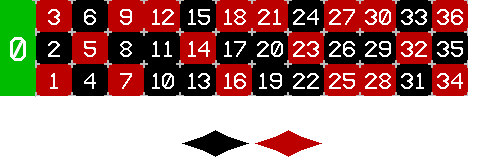
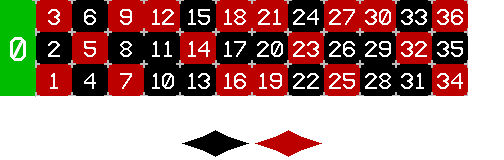
Final Fixes
PLease work

Changed region(s): [[0.4762, 0.375, 0.5952, 0.625], [0.7143, 0.375, 0.8036, 0.625]]

diff --git a/localServer/server.js b/localServer/server.js
@@ -317,6 +317,7 @@ function damage(p, d){
     if (p.upgrades.includes("h") && Math.random() < Math.min((1-1/(1+0.05*(p.upgrades.split("h").length-1))), 0.85)){
         return 0;
     }
+    d = Math.max(1, d - 5*(p.upgrades.split("a").length - 1));
     if (p.health[0] <= d && p.upgrades.includes("e")){
         let t = p.upgrades.split(".");
         let lsId = t.indexOf("e");
@@ -324,7 +325,7 @@ function damage(p, d){
         p.upgrades = t.join(".") + ".";
         return 0;
     }
-    p.health[0] = p.health[0] - Math.max(1, d - 5*(p.upgrades.split("a").length - 1));
+    p.health[0] = p.health[0] - d;
     p.health[0] = Math.round(Math.max(p.health[0], -0));
     if (p.health[0] == 0) return 2;
     return 1;
@@ -334,18 +335,17 @@ function damage(p, d){
 //factors in cow tipping upgrade
 function kill(p, g){
     let ind = g.info.ready.findIndex(x => x == p.pName);
-
+    console.log(p.pName, "has been killed");
     if (ind > -1){
         if (p.upgrades.includes("g")){
             g.projectiles.push(new projectile( //c, s, d, l, o, b, is
                 col.circle(vec.n(p.col.origin.x+8, p.col.origin.y+15), 40 + 10 * (p.upgrades.split("g").length - 1)),
-                vec.n(0,0), 10*(1.1**(p.upgrades.split("0").length-1))*(p.upgrades.split("g").length-1),
+                vec.n(0,0), 50*(1.1**(p.upgrades.split("0").length-1))*(p.upgrades.split("g").length-1),
                 1, p.pName, 0, false
             ));
-
             g.projectiles.at(-1).ls = true;
         }
-        g.info.ready.splice(ind, ind+1);
+            g.info.ready.splice(ind, 1);
     }
 }
 
@@ -403,6 +403,7 @@ function projectileHandler(game){
                                                 await new Promise(r => setTimeout(r, 500));
                                                 if (damage(t, 2 * 0.5**(p.owner == t.pName)) == 2 && game.info.ready.includes(t.pName)) {
                                                     kill(t, game);
+                                                    return;
                                                 }
                                             }
                                         } catch (e){
@@ -587,8 +588,17 @@ const blackjackFuncs = {
 				blackjackFuncs.next(game);
 			}
             else { //set turn options and currentplayer
-				game.turnOptions = handCheck.turn;
-				game.currentPlayer = game.players[validPlayerIndexes[0]].pName ?? "none";
+                try {
+                    game.turnOptions = handCheck.turn;
+                    game.currentPlayer = game.players[validPlayerIndexes[0]].pName ?? "none";
+                } catch {
+                    game.turnOptions = "none";
+    				game.currentPlayer = "\x1F";
+    				game.currentScene = "lobby";
+    				game.colliders = sceneColliders["lobby"];
+    				game.interactables = sceneInteractables["lobby"];
+    				blackjackFuncs.clear(game, true);
+                }
 			}
 
 		} catch(e) {
@@ -741,16 +751,15 @@ const blackjackFuncs = {
 }
 
 //converts value to indexed rotation from 0-36
-const rlWheelLookup = [0,32,15,19,4,21,2,25,17,34,6,27,13,36,11,30,8,23,10,5,24,16,33,1,20,14,31,9,22,18,29,7,28,12,35,3,26];
-
+const rlWheelLookup = [0, 23, 6, 35, 4, 19, 10, 31, 16, 27, 18, 14, 33, 12, 25, 2, 21, 8, 29, 3, 24, 5, 28, 17, 20, 7, 36, 11, 32, 30, 15, 26, 1, 22, 9, 34, 13]
 const rlValues = { //translates asystematic roulette values into readable values
 	"r" : [
         [ 3, 6, 9,12,15,18,21,24,27,30,33,36], //1st row
         [ 2, 5, 8,11,14,17,20,23,26,29,32,35], //2nd row
         [ 1, 4, 7,10,13,16,19,22,25,28,31,34]  //3rd row
 	],
-    "re" : [1,3,5,7,9,12,14,16,18,19,21,23,25,27,28,30,32,34,36], //red number
-    "bl" : [2,4,6,8,10,11,13,15,17,19,20,22,24,26,29,31,33,35]    //black numbers
+    "re" : [1,3,5,7,9,12,14,16,18,19,21,23,25,27,30,32,34,36], //red number
+    "bl" : [2,4,6,8,10,11,13,15,17,20,22,24,26,28,29,31,33,35]    //black numbers
 	};
 
 const rlSpecialLookup = {
@@ -778,7 +787,7 @@ const rouletteFuncs = { //all functions use by the roulette game
 			game.players[i].money -= betTotals[game.players[i].pName]||0;
 		}
         game.turnOptions = "spinning"; //start spinning wheel
-        let val = Math.max(Math.round(Math.random() * 37 - 0.001),0); //randomly choose a number
+        let val = Math.max(Math.round(Math.random() * 36 - 1),0); //randomly choose a number
         console.log("spin ", val, " @ ", rlWheelLookup[val]);
         sendall(game.id, `a\x1Frl\x1F${rlWheelLookup[val]}`); //send wheel index to all clients
         await new Promise(resolve => setTimeout(resolve, 12000)); //wait for wheel to stop spinning
@@ -825,7 +834,7 @@ const rouletteFuncs = { //all functions use by the roulette game
 		}
 
         game.info.bets = []; //clear bets placed
-        if (game.remRounds < game.maxRounds){ //if not last round, increment round count and play again
+        if (game.remRounds < game.maxRounds && (game.players.map(x => x.money).filter(x => x > 0).length > 0)){ //if not last round, increment round count and play again
 			game.turnOptions = "betting";
 			game.remRounds += 1;
         } else { //if last round, send to lobby
@@ -1301,6 +1310,10 @@ const pokerFuncs = { //all functions used by the poker function
                 game.info.win.push([winners.other[j][i][0], Math.round(mem.pots.other[j].sum/winners.other[j].length)||0]);
             }
         }
+
+        for (let i = 0; i < game.players.length; i++){
+            game.players[i].money = Math.max(0, game.players[i].money);
+        }
     },
     "turns" : {  //functions representing different actions players can make on theit turn
         "be" : (game, amount) => { //bet, place a new bet, and add to all in if the player has bet all their money
@@ -1462,15 +1475,15 @@ let fightFuncs = { //functions used by the fight scene
         clearInterval(fightMem[game.id].clId); //clear check win interval
 
         let p = game.players.find(x => x.pName == game.info.win)??{}; //get player object of winner
-        let winVal = p.money??0 + 2000; //set how much money the player has won
+        let winVal = (p.money??0) + 2000; //set how much money the player has won
         for (let i = 0; i < game.players.length; i++){ //for all players...
             if (game.players[i].pName == p.pName) { //if the player is the winner, pay them the winnings
                 game.info.win = [p.pName, winVal];
                 game.players.money *= 2;
                 game.players[i].money += 2000;
             }
-            if (game.players[i].money <= 0.3*winVal) { //if a player has less than 30% of the winnings in money, pay them 50%
-                game.players[i].money += Math.round(winVal*0.5); //of the winnings to prevent stagnation of the game
+            if (game.players[i].money <= 0.3*(winVal+2000)) { //if a player has less than 30% of the winnings in money, pay them 50%
+                game.players[i].money += Math.round(winVal*0.5 + 1000); //of the winnings to prevent stagnation of the game
             }
         }
 
@@ -1592,6 +1605,7 @@ server.on('connection', (socket) => { //determines what happens when a player co
     					blackjackFuncs.start(game);
                     } else if (args[1] == "rl") { //start roulette
                         game.info.ready = [];
+                        game.info.bets = [];
     					game.remRounds = 1;
     					game.votes = {};
     					game.turnOptions = "betting";
@@ -1667,8 +1681,10 @@ server.on('connection', (socket) => { //determines what happens when a player co
                         p.money = Math.round((((game.players.map(x => x.money).sort((a,b) => a-b).filter(x => x != 0)[0]) * 0.75)||250) * Math.random());
 					}
                 } else if (args[1] == "buy"){ //if player is trying to buy an item
-                    p.money = p.money - parseInt(args[2])||0; //subtract money from player
-                    p.upgrades += args[3]||"";                //add upgrade to player
+                    if (p.money > (parseInt(args[2])||0)){
+                        p.money = p.money - parseInt(args[2])||0; //subtract money from player
+                        p.upgrades += args[3]||""; //add upgrade to player
+                    }
                 }
 			}
 
@@ -1688,7 +1704,7 @@ server.on('connection', (socket) => { //determines what happens when a player co
 								}
 							}
 						}
-                    } else if (args[1] == "re"){ //if player is submitting ready message, lock bets
+                    } else if (args[1] == "re" && !game.info.ready.includes(p.pName)){ //if player is submitting ready message, lock bets
                         console.log("ready", id);
                         game.info.ready.push(id.slice(0,-4)); //add them to gamestate ready
                         if (game.info.ready.length == game.players.length){
@@ -1763,7 +1779,7 @@ server.on('connection', (socket) => { //determines what happens when a player co
                 }
 			}
             gameManager.playerMem[gId][pId] = game.players[playerIndex]; //send player to memory
-            game.players = gameManager.games[gId].players.splice(playerIndex, playerIndex+1); //remove player from game state
+            gameManager.games[gId].players.splice(playerIndex, playerIndex+1); //remove player from game state
             let rlRId = game.info.ready.findIndex(x => x == pId);
             if (rlRId != -1) game.info.ready.splice(rlRId,1); //remove player from gamestate ready
             delete game.votes[pId]; //clear votes
@@ -1776,7 +1792,6 @@ server.on('connection', (socket) => { //determines what happens when a player co
                     game.info.ready.splice(ind,ind+1);
                 }
             }
-			console.log("player left");
             if (game.players.length == 0){ //if there are no players left, close room.
 				console.log("closing room");
 				delete gameManager.games[gId];
@@ -1789,7 +1804,7 @@ server.on('connection', (socket) => { //determines what happens when a player co
                 delete blackjackMemory[gId];
                 delete pokerMem[gId];
                 delete fightMem[gId];
-			}
+            }
 		}
 	});
 });

diff --git a/script.js b/script.js
@@ -313,7 +313,7 @@ class upgrades {
 		[
 				["e", "Last Stand", "Not Today.", "+1 lethal attacks negated"],
 	/*spec player*/ ["f", "Bull Rush", "It's just one after another", "+2% speed on damage dealt"],
-				["g", "Cow Tipping", "Timber!!!", "+100% damage to on death."],
+				["g", "Cow Tipping", "Timber!!!", "+500% damage to on death."],
 				["h", "Loaded Dice", "The house always wins", "+5% hyperbolic chance to negate damage"]
 		]
 
@@ -652,7 +652,7 @@ function lobbyScene(sock) {
 		} else {
 			mflag = 1;
 		}
-
+		if (mflag == 0) audio.clips.shop.play();
 		if (mflag == 1){ //if mflag is raised, alert player
 			alert("Insufficient Money");
 			pressedButton.pressed = 0;
@@ -2074,8 +2074,8 @@ function fightScene(sock){ //function that contains poker scene
 		}
 
 		//Update Velocity
-		vel.x = ((1 + 0.02*br)**(game.players[pIndx].hits)) * baseSpeed * (keys.a ^ keys.d) * (keys.a ? -1 : 1) * (keys.shift * sprintFact + 1);
-		vel.y = ((1 + 0.02*br)**(game.players[pIndx].hits)) * baseSpeed * (keys.w ^ keys.s) * (keys.w ? -1 : 1) * (keys.shift * sprintFact + 1);
+		vel.x = (1 + (0.02*br*game.players[pIndx].hits)) * baseSpeed * (keys.a ^ keys.d) * (keys.a ? -1 : 1) * (keys.shift * sprintFact + 1);
+		vel.y = (1 + (0.02*br*game.players[pIndx].hits)) * baseSpeed * (keys.w ^ keys.s) * (keys.w ? -1 : 1) * (keys.shift * sprintFact + 1);
 		if (vel.x != 0) flip = 1 * (vel.x < 0); //assign flip if horizontal velocity is negative
 		//Calculate unit vector of  mouse from player center
 		let dir = vec.n(mx - game.players[pIndx].col.origin.x - 8, my - game.players[pIndx].col.origin.y - 15).normal();
@@ -2231,7 +2231,7 @@ function fightScene(sock){ //function that contains poker scene
 					while (game.players[pIndx].ammo[0] > 0 && mouse[0].v == 1 && shootable == 1 && reloading == 0){ //loop whilst mouse button is held and not reloading
 						shootable = 0; //set shootable to zero so players can't circumvent shoot speed
 						sock.send("a\x1Fs"); //send shoot request to server
-						await new Promise(r => setTimeout(r, 3000/(5*(gunStats.ra)))); //set cooldown speed based off of player fire rate
+						await new Promise(r => setTimeout(r, 500/gunStats.ra)); //set cooldown speed based off of player fire rate
 						shootable = 1; //set shootable to one before looping
 					}
 				})();
